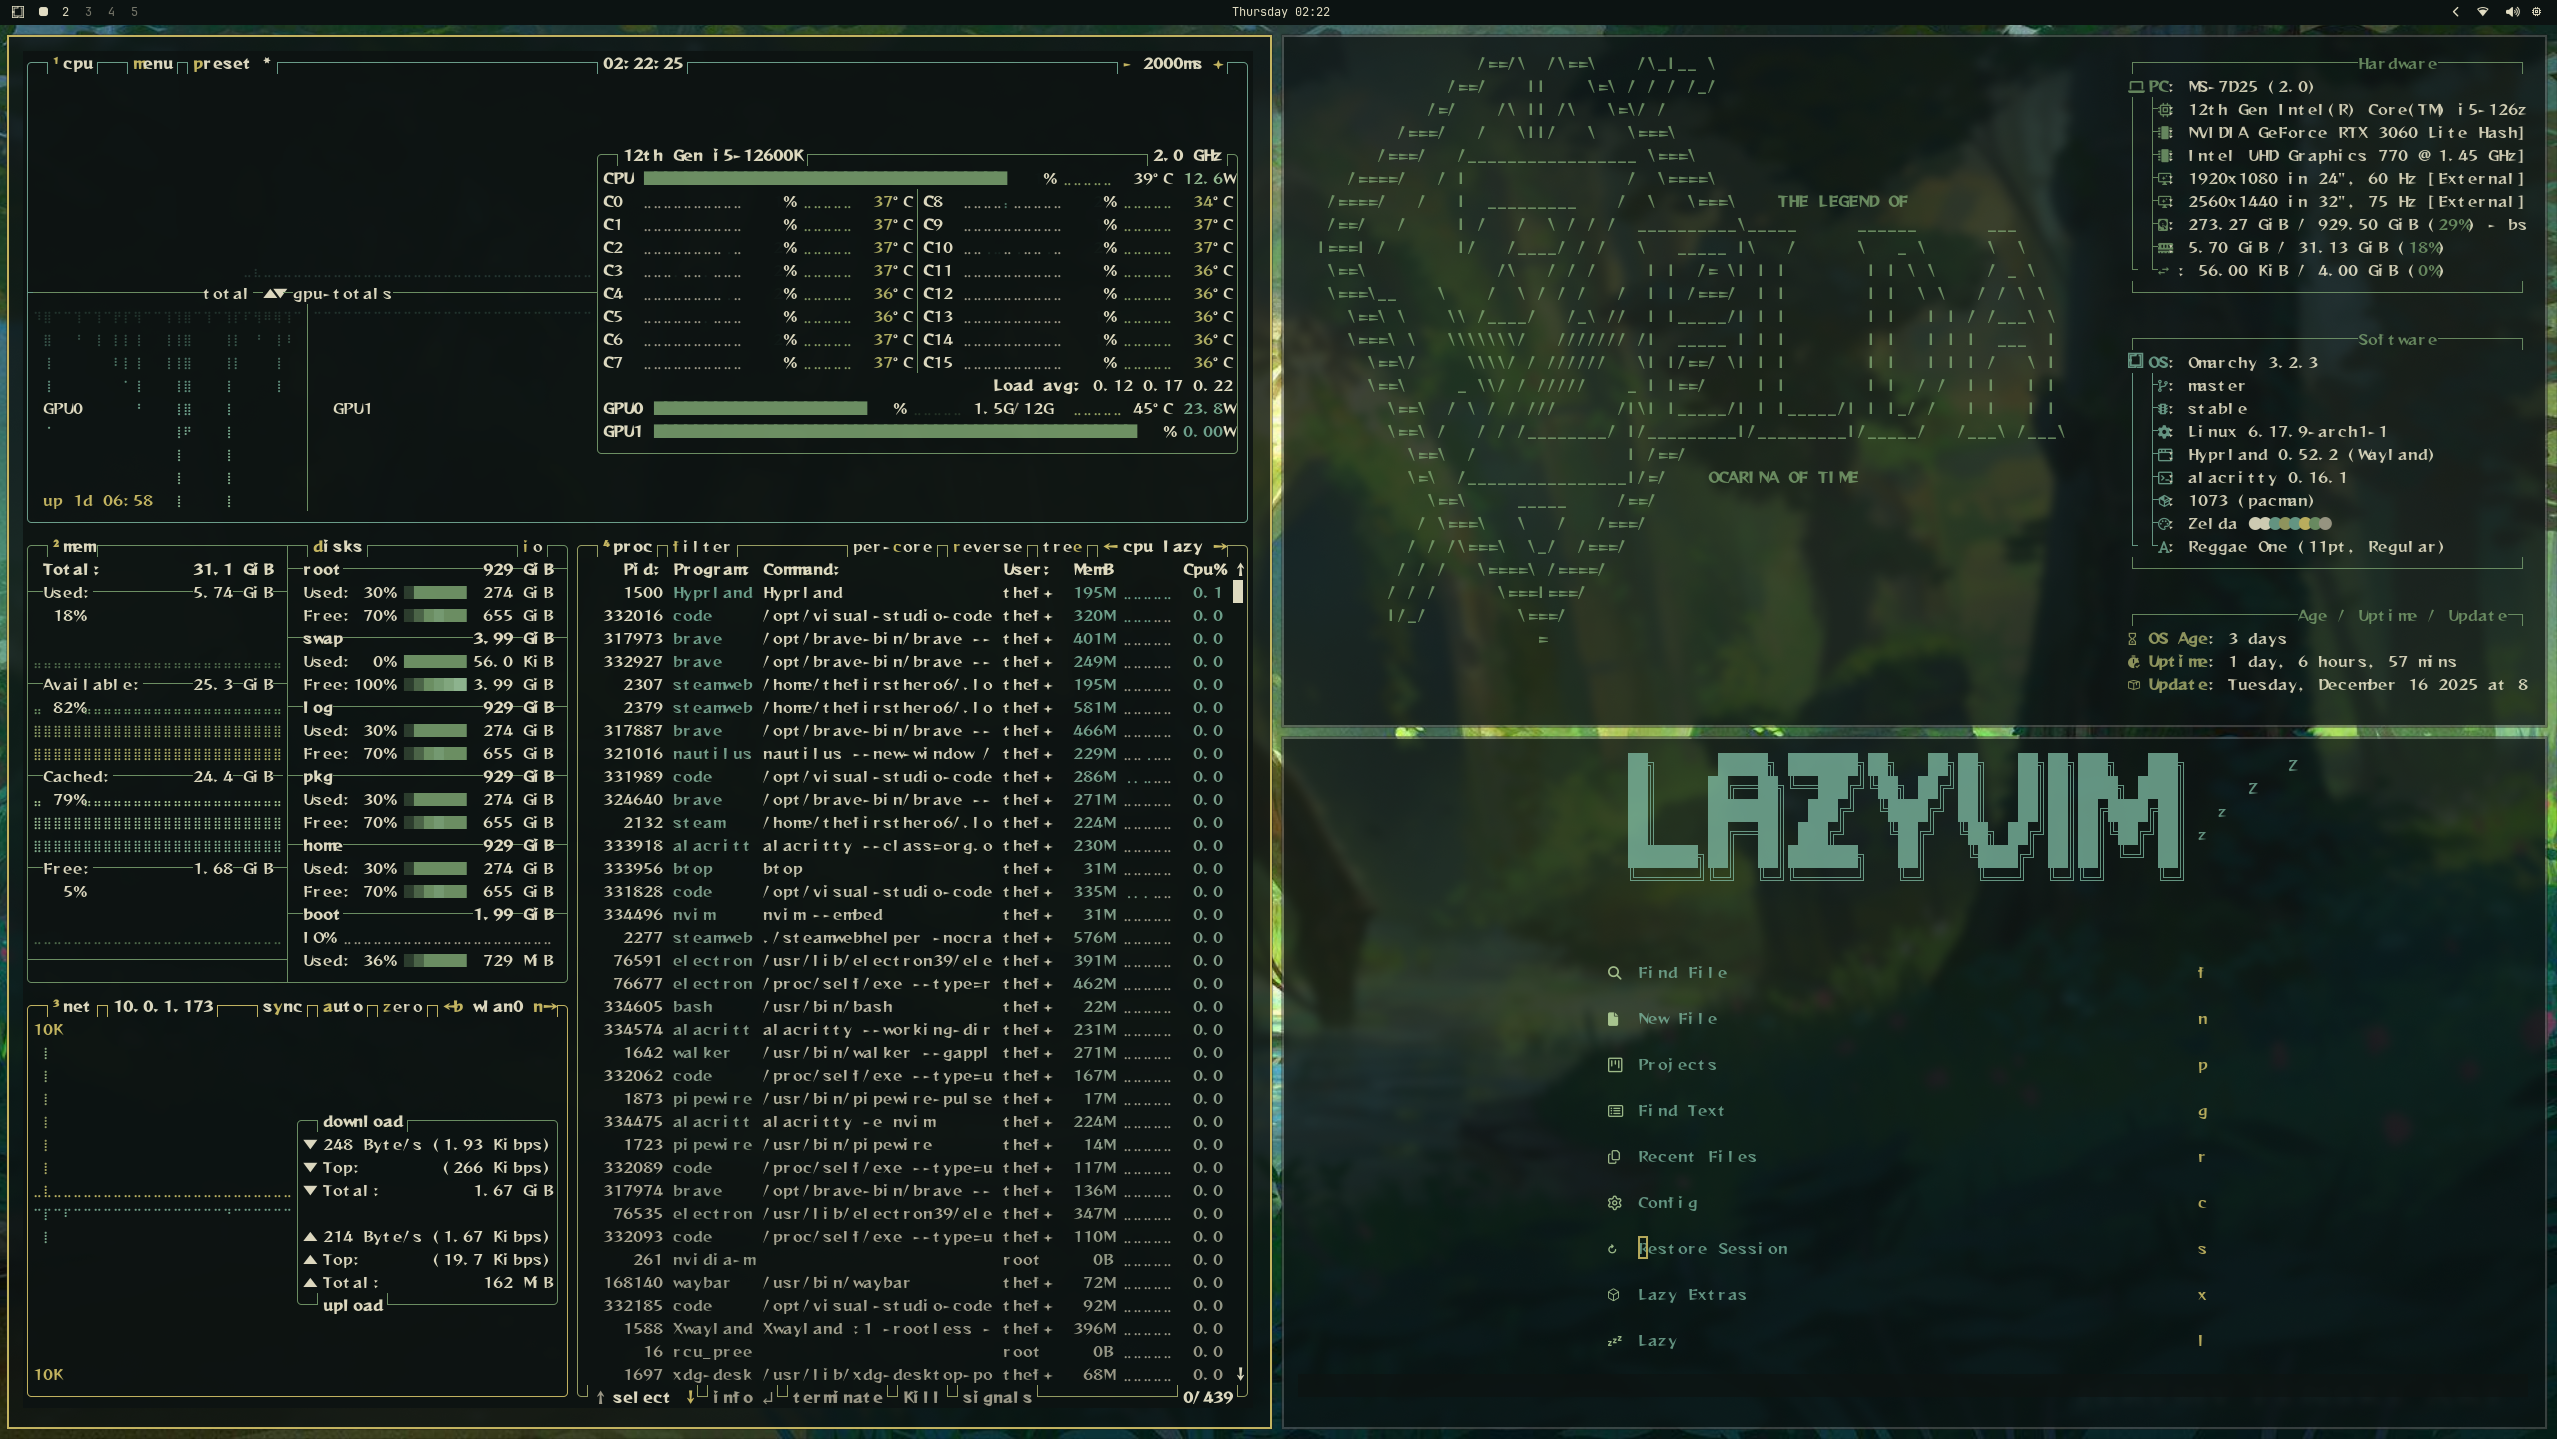
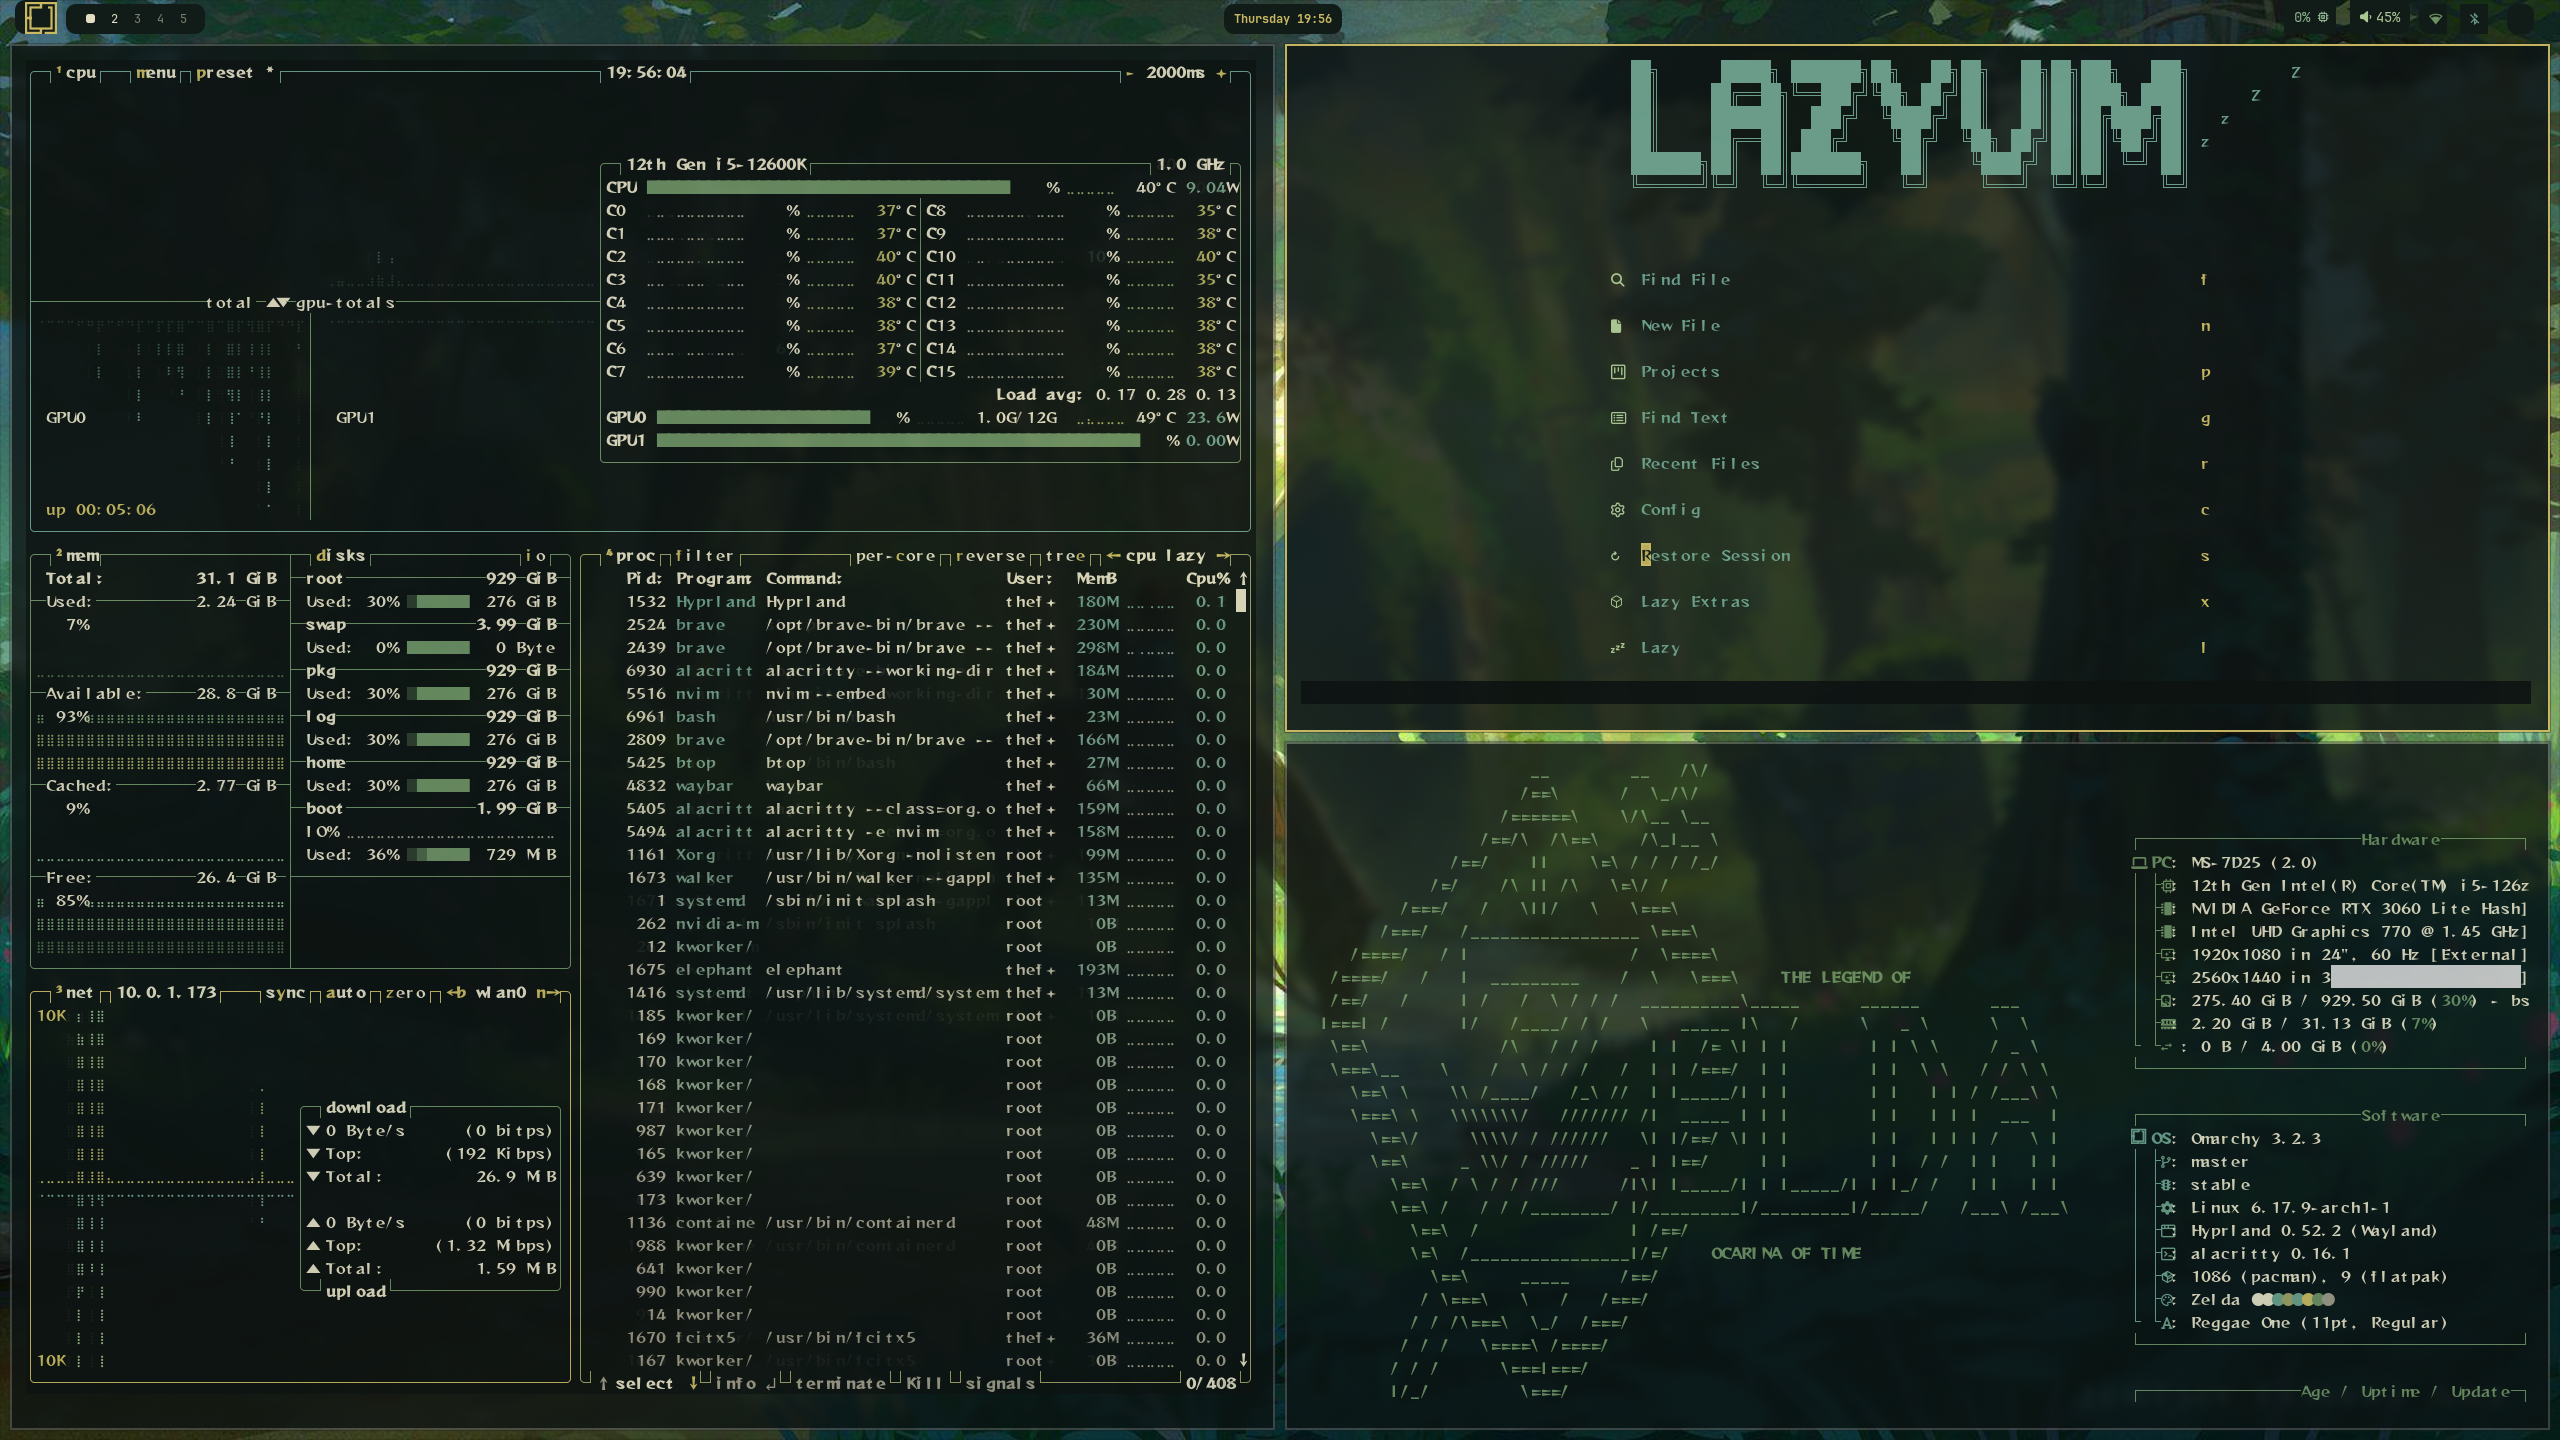
edited waybar styling and added new preview picture

diff --git a/waybar.css b/waybar.css
@@ -1,4 +1,273 @@
 @define-color foreground #e2ddc3;
 @define-color background #0c1312;
+@define-color background-alt #111b18;
 @define-color border     #6D9064;
 @define-color accent     #C9B962;
+@define-color accent-soft #90B791;
+@define-color muted     #9e9a88;
+@define-color teal      #6CA08C;
+@define-color pale-green #ABC894;
+@define-color olive     #9BA064;
+
+* {
+    border: none;
+    border-radius: 0;
+    font-family: JetBrains Mono, monospace;
+    font-size: 13px;
+    min-height: 0;
+}
+
+window#waybar {
+    background-color: rgba(0, 0, 0, 0);
+    color: @foreground;
+    transition-property: background-color;
+    transition-duration: 0.5s;
+}
+
+window#waybar.hidden {
+    opacity: 0.1;
+}
+
+#clock,
+#network,
+#hyprland-language,
+#pulseaudio,
+#pulseaudio.microphone,
+#hyprland-window,
+#cpu,
+#memory,
+#disk,
+#custom-brightness,
+#custom-separator,
+#language,
+#bluetooth,
+#backlight,
+#mpris,
+#custom-media,
+#tray,
+#mode,
+#workspaces,
+#battery,
+#idle_inhibitor,
+#custom-dict,
+#custom-usb,
+#custom-power-menu,
+#custom-wallpaper,
+#custom-launcher,
+#custom-spotify,
+#custom-notifications,
+#custom-hyprshade,
+#custom-audio_idle_inhibitor,
+#custom-omarchy,
+#custom-update,
+#custom-screenrecording-indicator,
+#custom-expand-icon,
+#custom-taskbar,
+#group-tray-expander,
+#group-hardware {
+    color: @foreground;
+    padding: 0px 10px 0px 10px;
+    background-color: @background-alt;
+    border-radius: 10px;
+    margin: 4px 2px 0 2px;
+}
+
+#custom-notifications,
+#mpris {
+    padding-top: 2px;
+}
+
+#custom-audio_idle_inhibitor,
+#custom-brightness,
+#custom-separator,
+#pulseaudio.microphone,
+#language,
+#cpu,
+#memory,
+#disk,
+#bluetooth,
+#backlight,
+#battery,
+#custom-hyprshade {
+    margin-right: 0;
+    margin-left: 0;
+    border-radius: 0;
+}
+
+#idle_inhibitor,
+#hyprland-window,
+#pulseaudio,
+#group-hardware {
+    margin-left: 0;
+    border-top-left-radius: 0;
+    border-bottom-left-radius: 0;
+}
+
+#custom-notifications,
+#custom-launcher,
+#custom-omarchy,
+#network {
+    margin-right: 0;
+    border-top-right-radius: 0;
+    border-bottom-right-radius: 0;
+}
+
+#custom-launcher,
+#custom-omarchy {
+    color: @accent;
+    font-size: 32px;
+    padding: 2px 0 0 10px;
+}
+
+#custom-taskbar {
+    color: @foreground;
+    padding: 2px 10px;
+    font-size: 16px;
+}
+
+#custom-taskbar .taskbar-active {
+    color: @accent;
+    background-color: @accent;
+    border-radius: 8px;
+    padding: 4px 8px;
+    margin: 0 3px;
+    transition: all 0.3s;
+}
+
+#custom-taskbar .taskbar-inactive {
+    color: @muted;
+    padding: 4px 8px;
+    margin: 0 3px;
+    transition: all 0.3s;
+    opacity: 0.8;
+}
+
+#custom-taskbar .taskbar-inactive:hover {
+    color: @foreground;
+    background-color: @background-alt;
+    border-radius: 8px;
+    opacity: 1;
+}
+
+#network,
+#bluetooth,
+#battery,
+#pulseaudio,
+#cpu,
+#memory,
+#disk,
+#custom-notifications {
+    font-size: 14px;
+}
+
+#idle_inhibitor,
+#custom-usb {
+    color: @accent;
+}
+
+#custom-spotify,
+#custom-notifications,
+#cpu {
+    color: @accent-soft;
+}
+
+#custom-dict,
+#bluetooth,
+#language,
+#disk {
+    color: @teal;
+}
+
+#workspaces button {
+    color: @muted;
+    box-shadow: inset 0 -3px transparent;
+    padding: 0px 6px;
+    margin: 0 1.5px;
+    min-width: 9px;
+    transition: all 0.5s cubic-bezier(0.55, -0.68, 0.48, 1.68);
+}
+
+#workspaces button.active {
+    color: @accent;
+    background-color: transparent;
+    border-radius: 10px;
+    padding: 0px 8px;
+    margin: 0 1.5px;
+    transition: all 0.5s cubic-bezier(0.55, -0.68, 0.48, 1.68);
+}
+
+#tray > .passive {
+    -gtk-icon-effect: dim;
+}
+
+#tray > .needs-attention {
+    -gtk-icon-effect: highlight;
+    background-color: #eb4d4b;
+}
+
+#custom-wallpaper,
+#custom-brightness,
+#custom-hyprshade,
+#pulseaudio {
+    color: @pale-green;
+}
+
+#backlight,
+#battery,
+#pulseaudio.microphone,
+#network {
+    color: @border;
+}
+
+#custom-audio_idle_inhibitor,
+#memory,
+#pulseaudio.muted,
+#network.disconnected {
+    color: @muted;
+}
+
+#battery.critical,
+#battery.warning,
+#battery.full,
+#battery.plugged {
+    color: @olive;
+}
+
+#clock {
+    color: @accent;
+    font-weight: bold;
+    margin-left: 4px;
+}
+
+#custom-power-menu {
+    color: @muted;
+    font-size: 14px;
+    margin-right: 4px;
+}
+
+#mpris,
+#custom-media {
+    color: @accent-soft;
+}
+
+@keyframes blink {
+    to {
+        background-color: rgba(12, 19, 18, 0.5);
+        color: @foreground;
+    }
+}
+
+tooltip {
+    border-radius: 10px;
+    padding: 15px;
+    background-color: @background-alt;
+    font-family: JetBrains Mono;
+}
+
+tooltip label {
+    padding: 5px;
+}
+
+label:focus {
+    background-color: @background-alt;
+}
